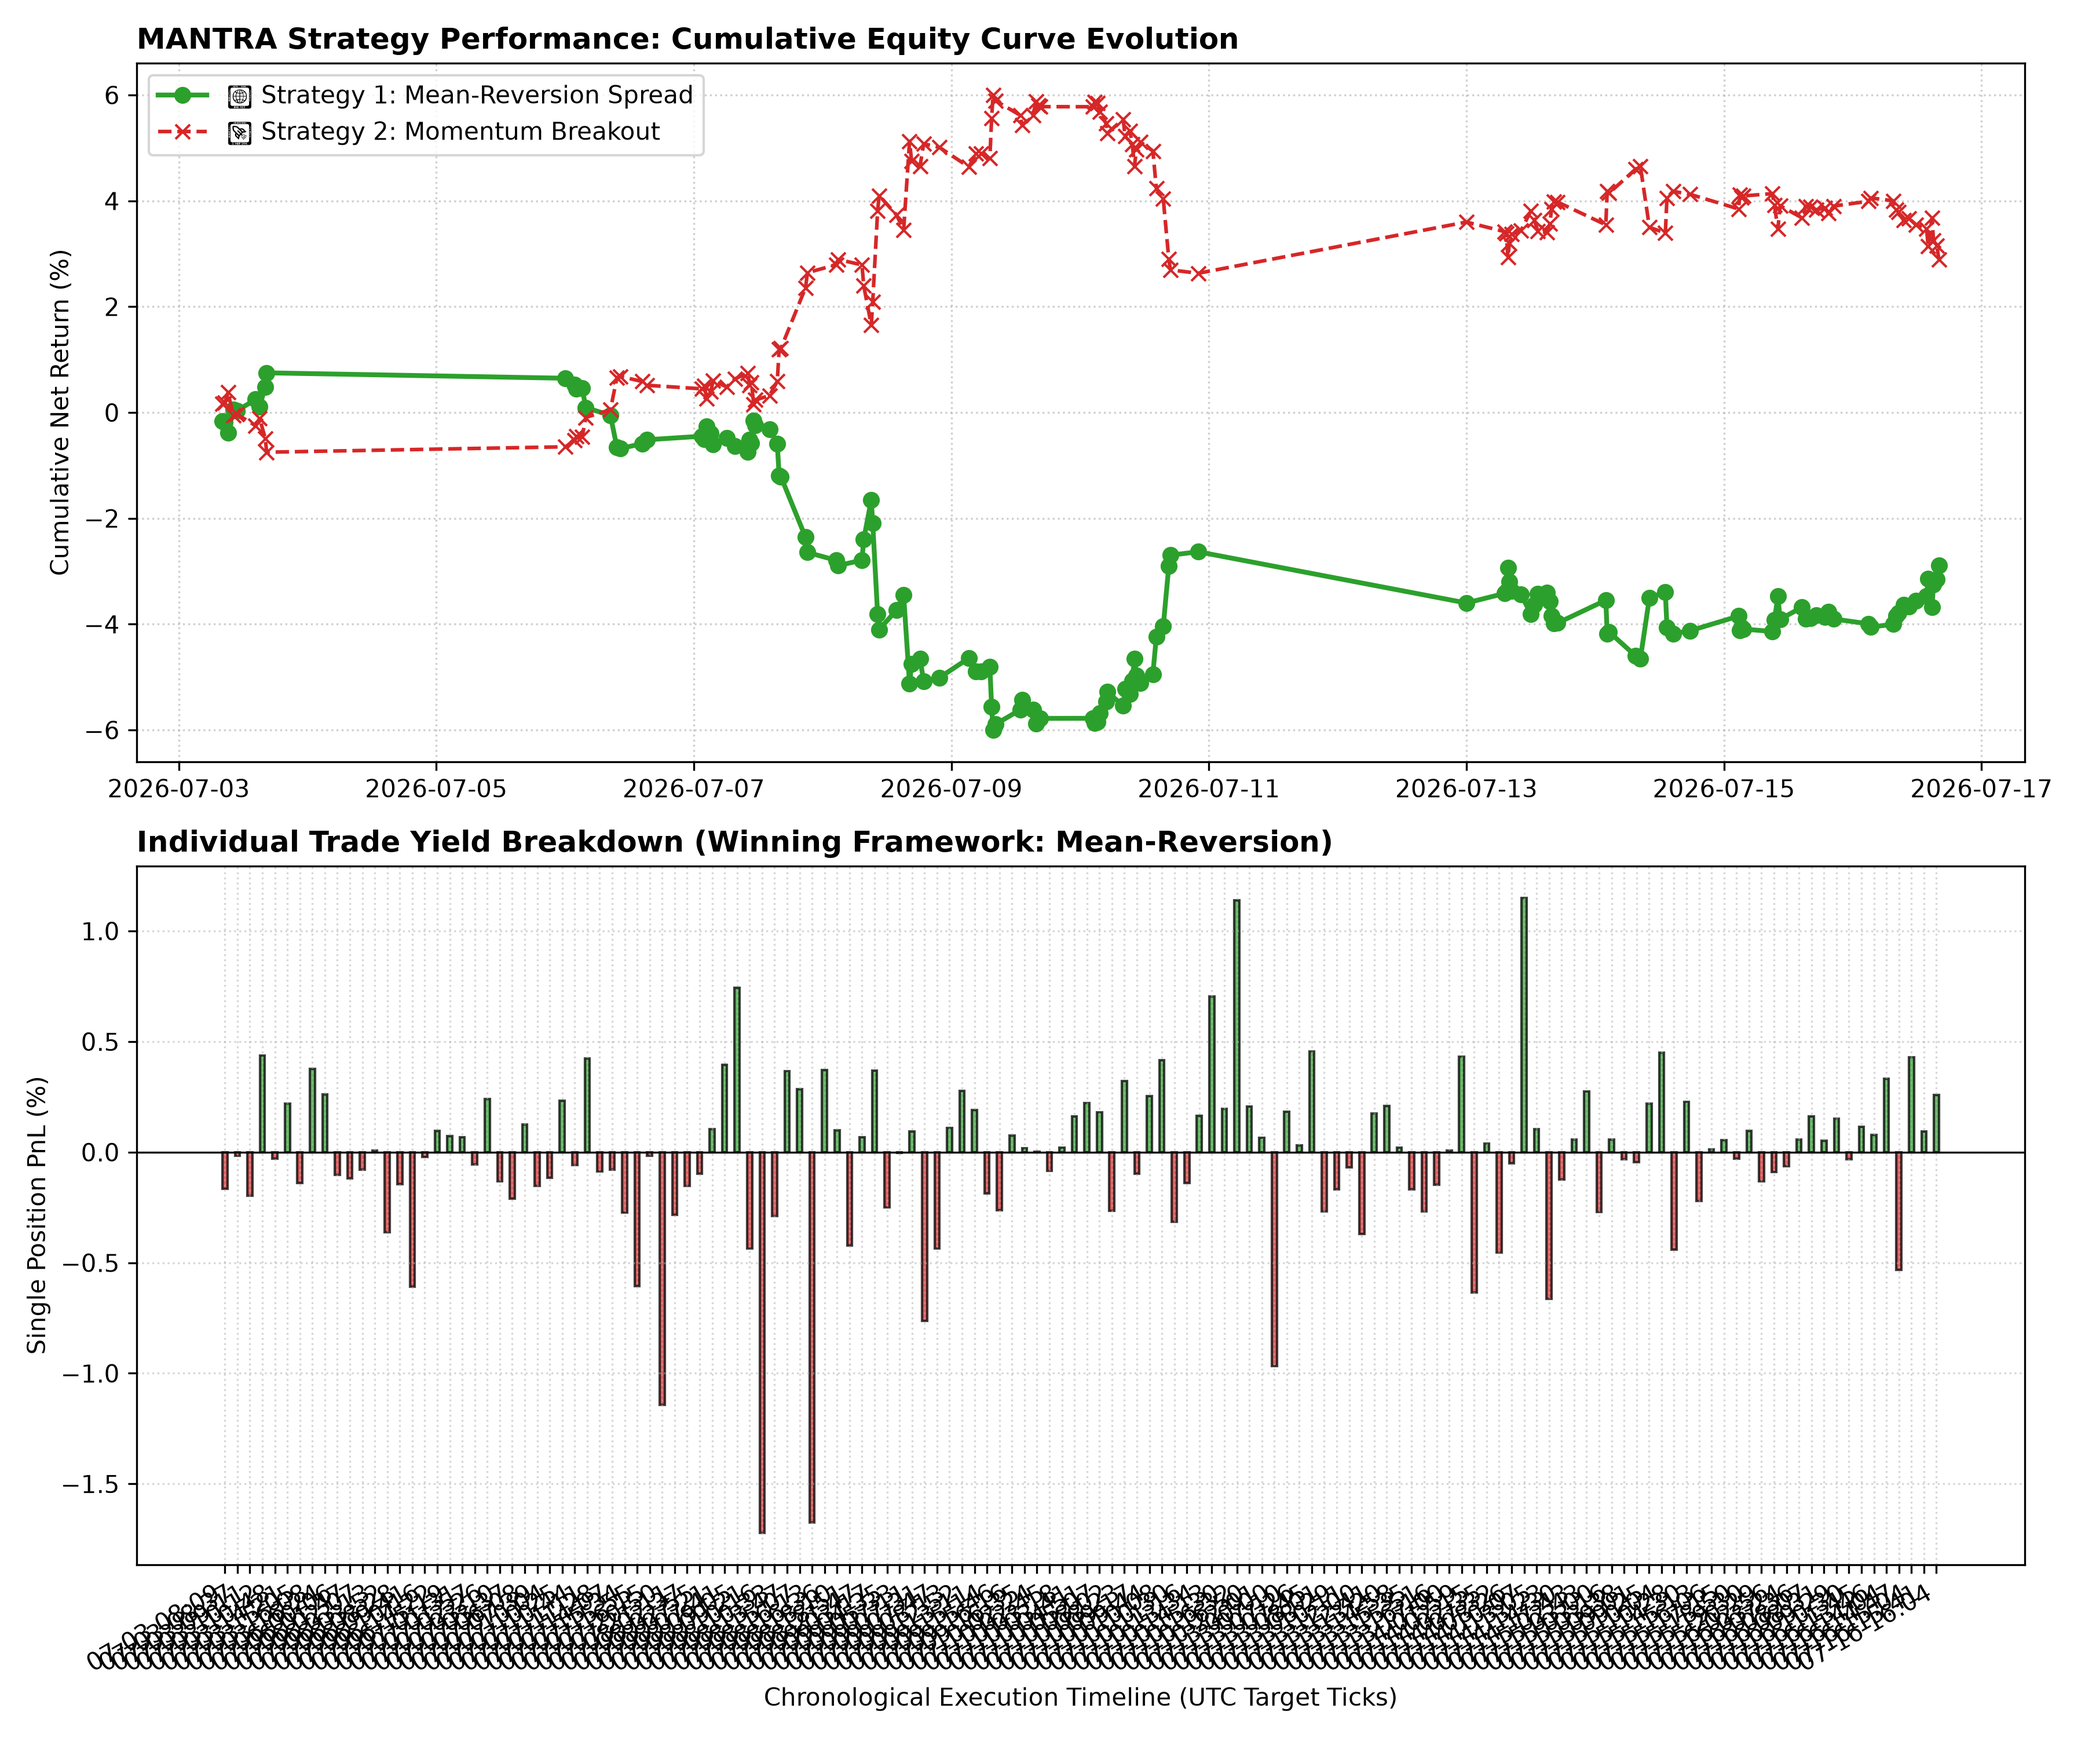
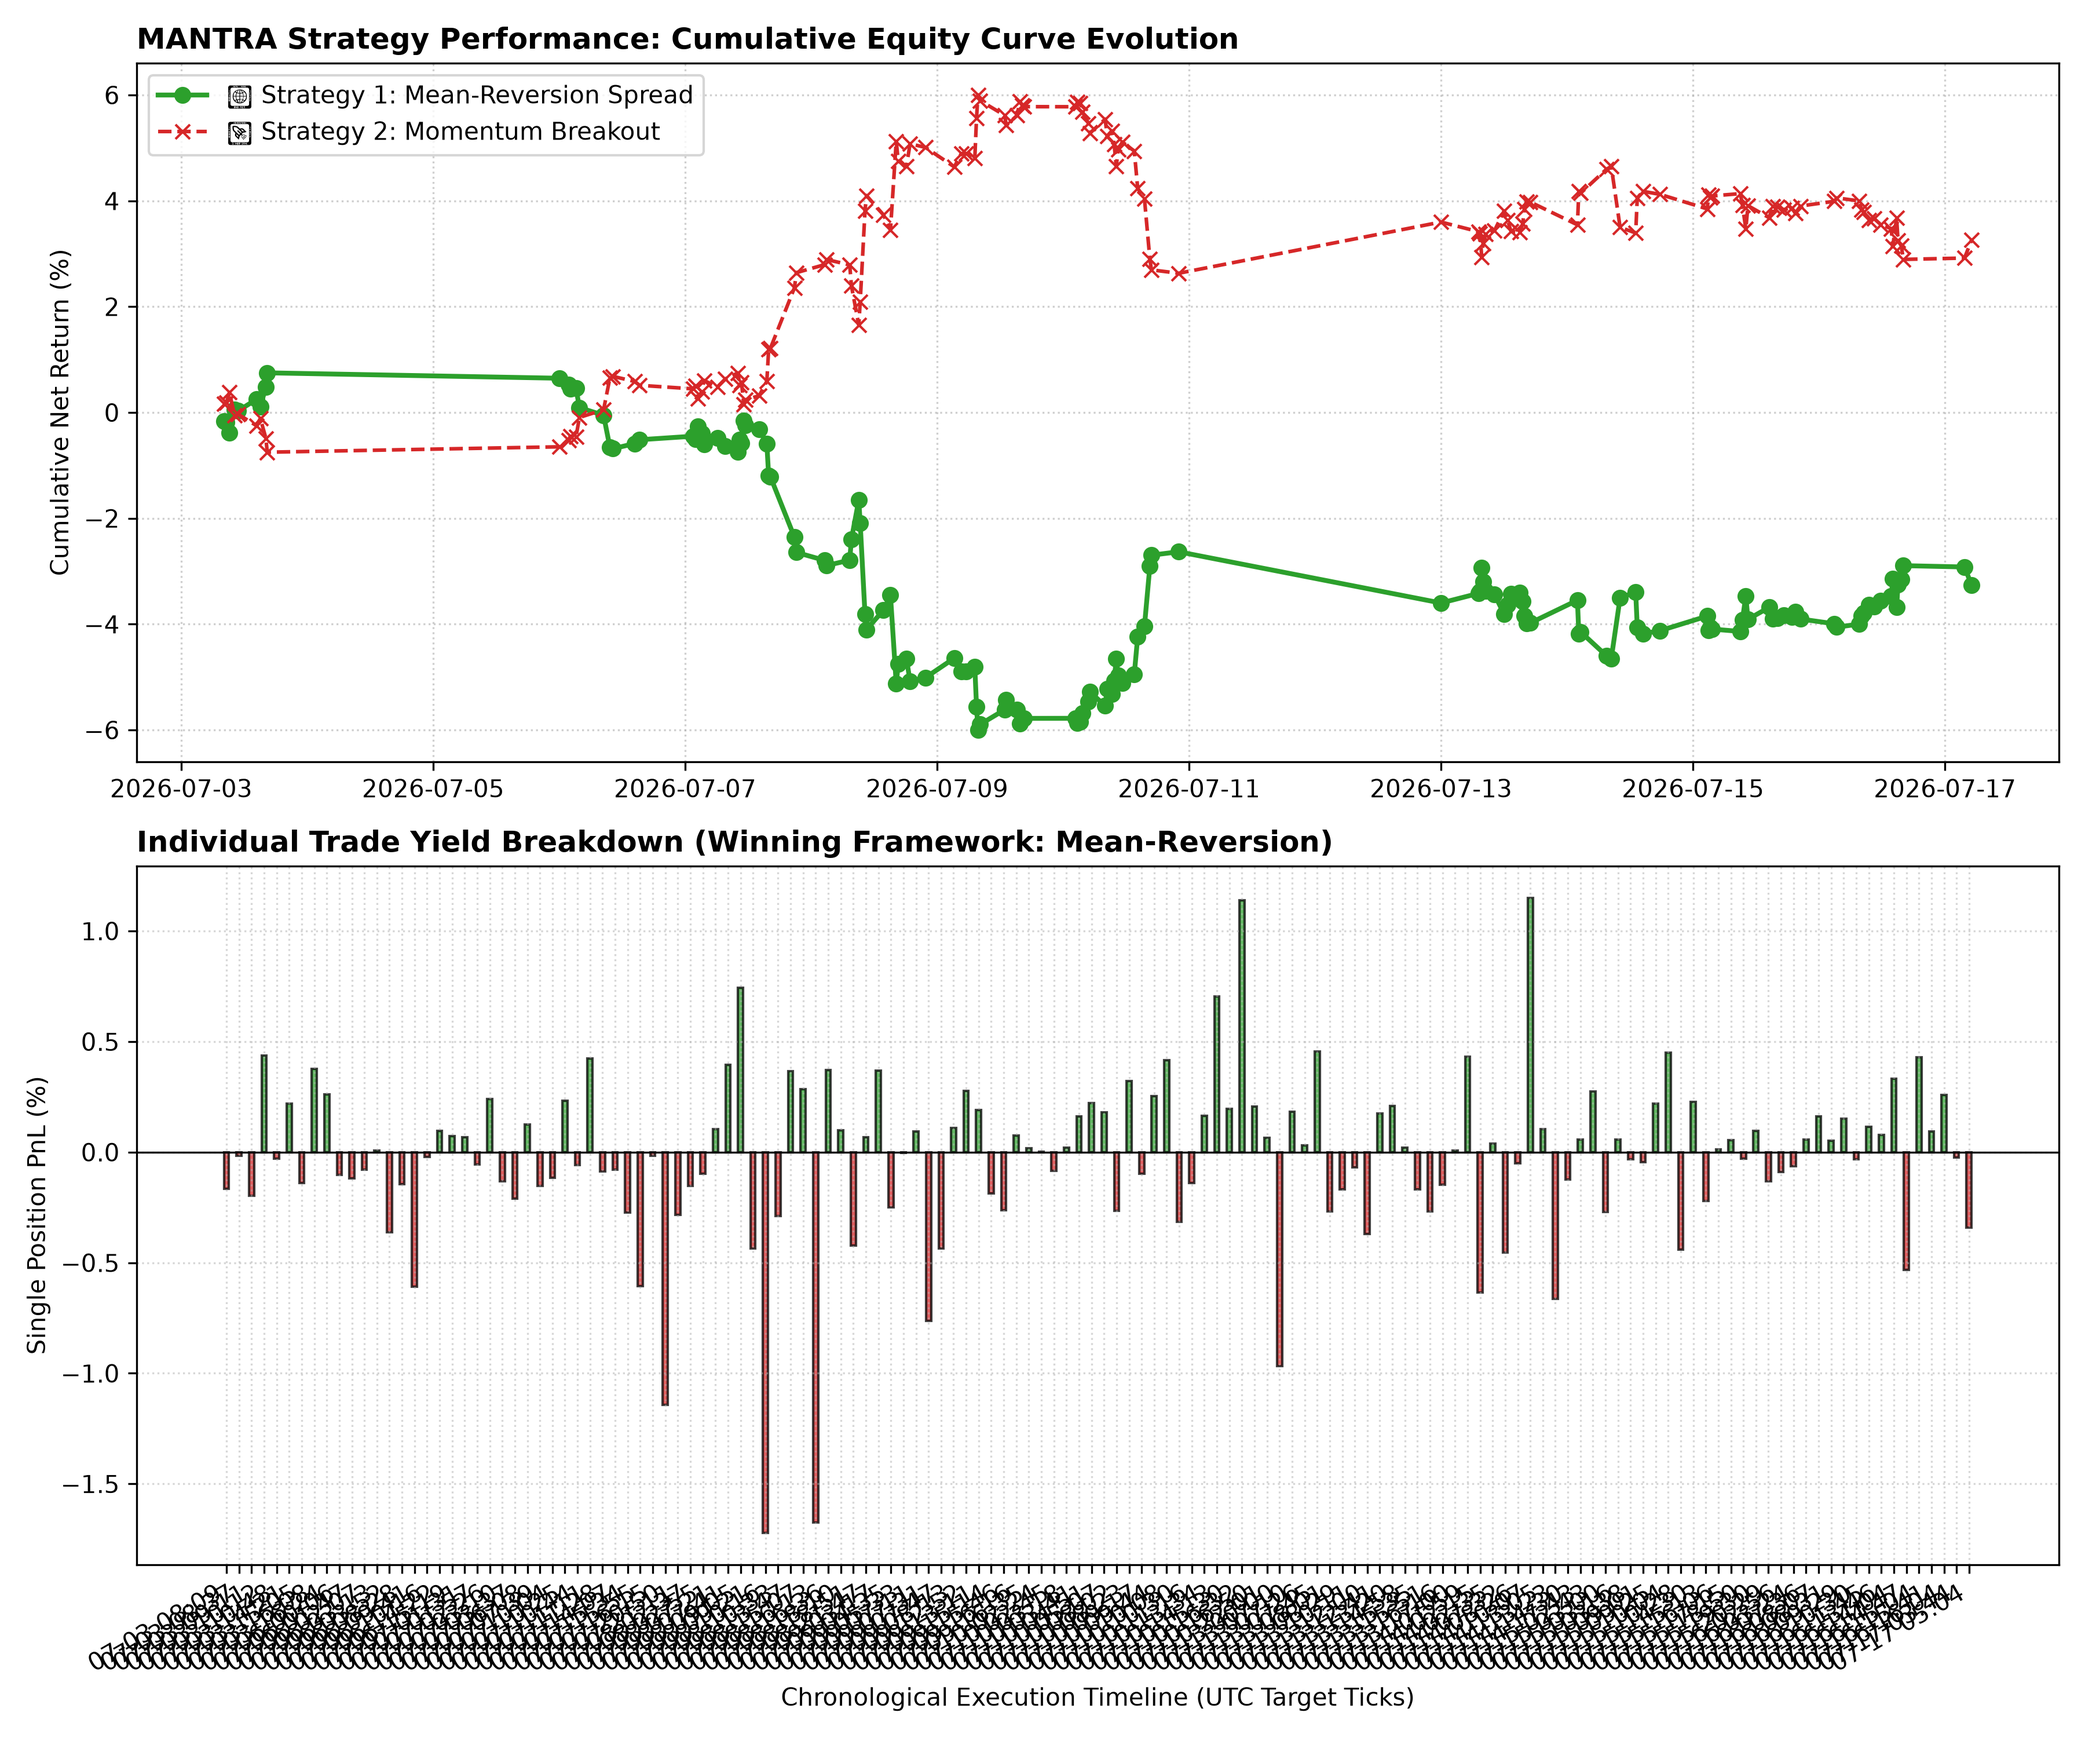
📊 Quantitative Strategy Sync: Backtest results repository updated [Skip CI]

diff --git a/data/backtest_results/backtest_performance.md b/data/backtest_results/backtest_performance.md
@@ -3,23 +3,23 @@
 This automated research node evaluates the directionality of asset prices immediately following a detected rolling anomaly cluster.
     
 ### 🔬 Pilot Parameters
-* **Captured Anomaly Signals (Post-Cooldown):** 138
+* **Captured Anomaly Signals (Post-Cooldown):** 140
 * **Position Holding Horizon:** 15 Minutes
 * **Data Scale Basis:** Standard Closing Mid-Prices (Proof of Concept)
 
 ### 📦 Asset Class Exposure (What was traded?)
 * **🇺🇸 US500 (S&P 500 Index):** 6 trades executed
-* **👑 GOLD Spot:** 31 trades executed
-* **🛢 OIL_CRUDE Spot:** 101 trades executed
+* **👑 GOLD Spot:** 32 trades executed
+* **🛢 OIL_CRUDE Spot:** 102 trades executed
     
 ### 📈 Directional Leaderboard
 | Directional Strategy | Total Simulated PnL (%) | Baseline Status |
 | :--- | :--- | :--- |
-| **🔄 Strategy 1: Mean-Reversion Spread** | -2.8937% | 🔴 Negative Horizon |
-| **🚀 Strategy 2: Momentum Breakout** | +2.8937% | 🟢 Positive Horizon |
+| **🔄 Strategy 1: Mean-Reversion Spread** | -3.2614% | 🔴 Negative Horizon |
+| **🚀 Strategy 2: Momentum Breakout** | +3.2614% | 🟢 Positive Horizon |
     
 ### 🏁 Research Verdict
-> **MARKET CHARACTERISTIC:** Following an isolation shock, the asset pricing registry historically favors the **Momentum Breakout** framework (Gross Return: +2.894%). *Note: This baseline pilot model excludes transactional spreads and execution slippage.*
+> **MARKET CHARACTERISTIC:** Following an isolation shock, the asset pricing registry historically favors the **Momentum Breakout** framework (Gross Return: +3.261%). *Note: This baseline pilot model excludes transactional spreads and execution slippage.*
 
 ---
 
